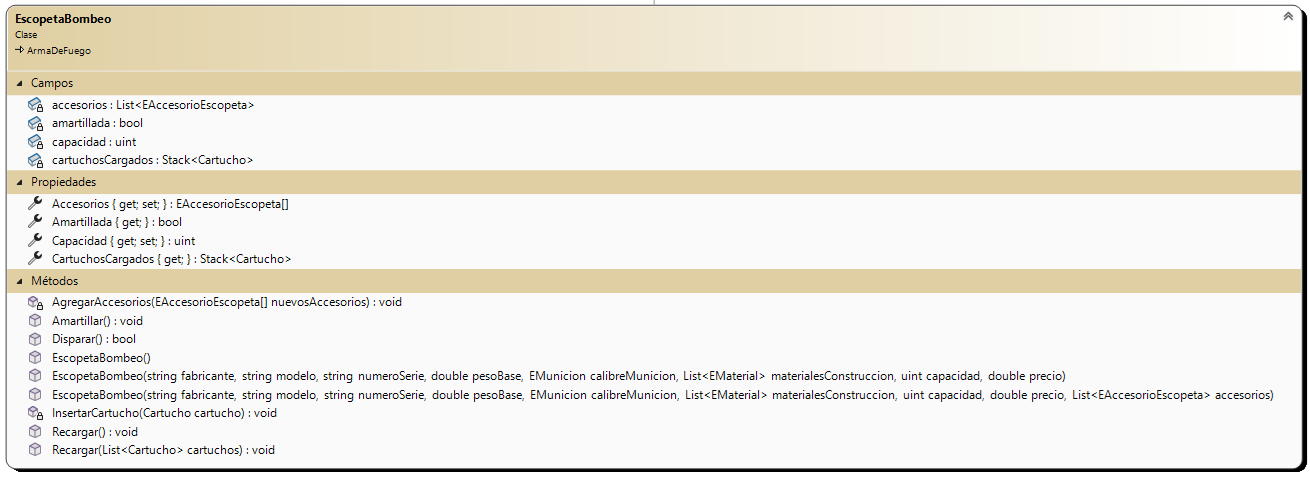
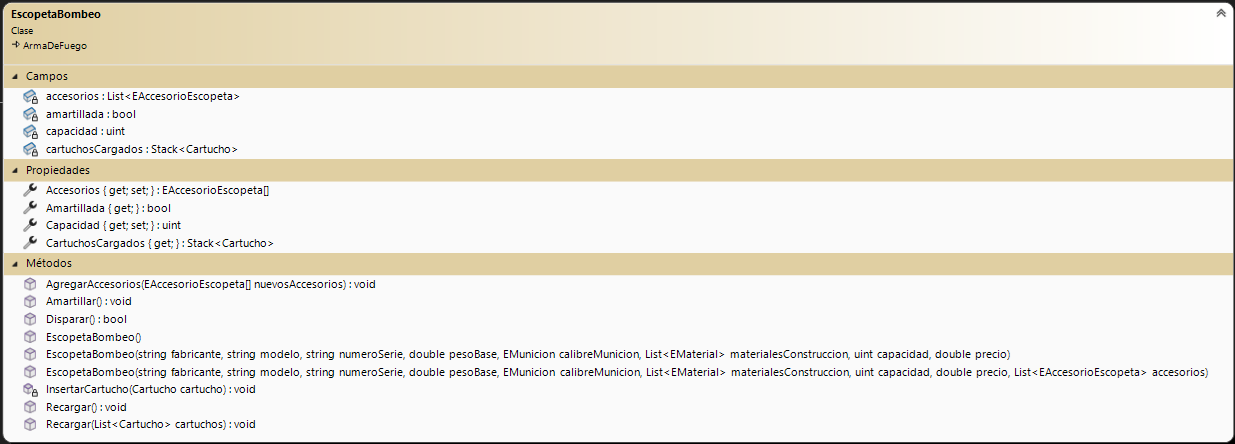
Se modifica el método AgregarAccesorios

Changed region(s): [[0.0, 0.0, 1.0, 1.0]]

diff --git a/Armas/FusilAsalto.cs b/Armas/FusilAsalto.cs
@@ -46,7 +46,12 @@ namespace Armas
         public EAccesorioFusil[] Accesorios
         {
             get { return this.accesorios.ToArray(); }
-            set { this.AgregarAccesorios(value); }
+            set 
+            {
+                this.accesorios = new List<EAccesorioFusil>();
+                base.pesoTotal = base.pesoBase;
+                this.AgregarAccesorios(value); 
+            }
         }
         #endregion
 
@@ -90,14 +95,7 @@ namespace Armas
                           ) : this(fabricante, modelo, numeroSerie, pesoBase, calibreMunicion, materialesConstruccion, capacidadCargador, cadencia, precio)
         {
 
-            foreach (EAccesorioFusil a in accesorios)
-            {
-                if (!this.accesorios.Contains(a))
-                {
-                    this.accesorios.Add(a);
-                    base.pesoTotal += 0.250;
-                }
-            }
+            this.AgregarAccesorios(accesorios.ToArray());
         }
         #endregion
 
@@ -157,16 +155,14 @@ namespace Armas
 
             return true;
         }
-        private void AgregarAccesorios(EAccesorioFusil[] nuevosAccesorios)
+        public void AgregarAccesorios(EAccesorioFusil[] nuevosAccesorios)
         {
-            this.pesoTotal = this.pesoBase;
-            this.accesorios = new List<EAccesorioFusil>();
             foreach (EAccesorioFusil accesorio in nuevosAccesorios)
             {
                 if (!this.accesorios.Contains(accesorio))
                 {
                     this.accesorios.Add(accesorio);
-                    this.pesoTotal += 0.250;
+                    this.pesoTotal += 0.190;
                 }
             }
         }

diff --git a/Armas/PistolaSemiautomatica.cs b/Armas/PistolaSemiautomatica.cs
@@ -39,7 +39,12 @@ namespace Armas
         public EAccesorioPistola[] Accesorios
         {
             get { return this.accesorios.ToArray(); }
-            set { this.AgregarAccesorios(value); }
+            set 
+            {
+                this.accesorios = new List<EAccesorioPistola>();
+                base.pesoTotal = base.pesoBase;
+                this.AgregarAccesorios(value); 
+            }
         }
         #endregion
 
@@ -112,17 +117,14 @@ namespace Armas
             this.cargador.AgregarCartucho(cartuchos);
         }
 
-        // Tuve que agregar esto por la deserializacion xml
-        private void AgregarAccesorios(EAccesorioPistola[] nuevosAccesorios)
+        public void AgregarAccesorios(EAccesorioPistola[] nuevosAccesorios)
         {
-            this.pesoTotal = this.pesoBase;
-            this.accesorios = new List<EAccesorioPistola>();
             foreach (EAccesorioPistola accesorio in nuevosAccesorios)
             {
                 if (!this.accesorios.Contains(accesorio))
                 {
                     this.accesorios.Add(accesorio);
-                    this.pesoTotal += 0.250;
+                    base.pesoTotal += 0.100;
                 }
             }
         }

diff --git a/Armas/EscopetaBombeo.cs b/Armas/EscopetaBombeo.cs
@@ -38,6 +38,8 @@ namespace Armas
             get { return this.accesorios.ToArray(); }
             set
             {
+                this.accesorios = new List<EAccesorioEscopeta>();
+                base.pesoTotal = base.pesoBase;
                 this.AgregarAccesorios(value);
             }
         }
@@ -156,10 +158,8 @@ namespace Armas
             return disparoExitoso;
         }
 
-        private void AgregarAccesorios(EAccesorioEscopeta[] nuevosAccesorios)
+        public void AgregarAccesorios(EAccesorioEscopeta[] nuevosAccesorios)
         {
-            this.pesoTotal = this.pesoBase;
-            this.accesorios = new List<EAccesorioEscopeta>();
             foreach (EAccesorioEscopeta accesorio in nuevosAccesorios)
             {
                 if (!this.accesorios.Contains(accesorio))
